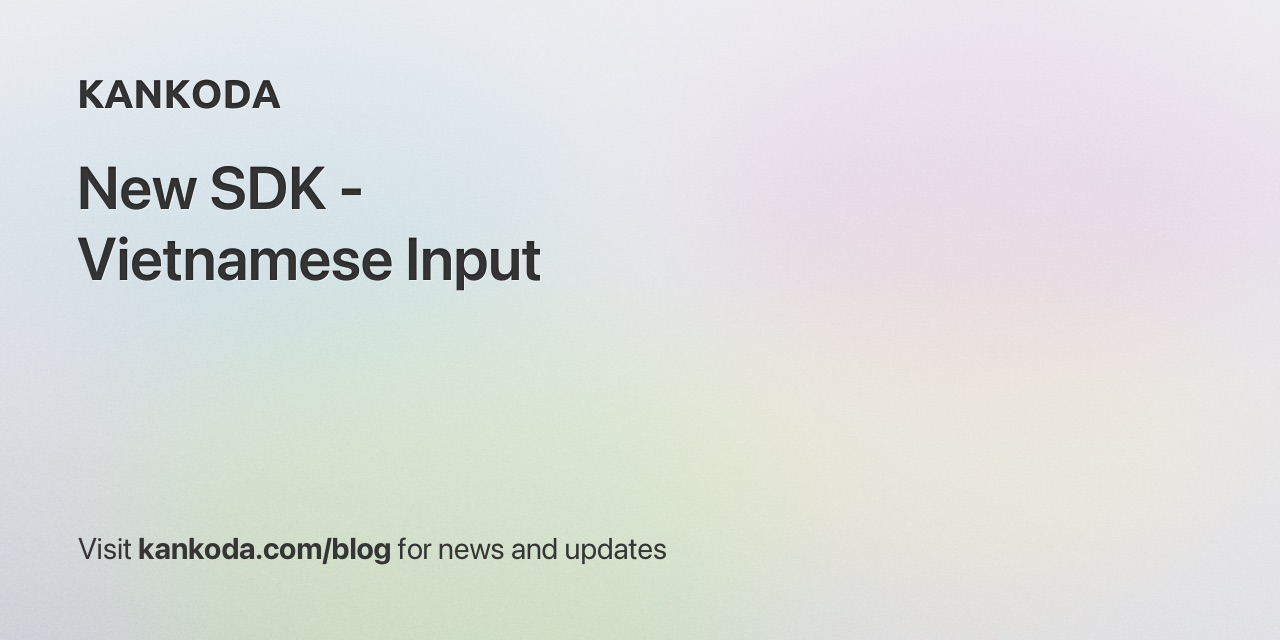
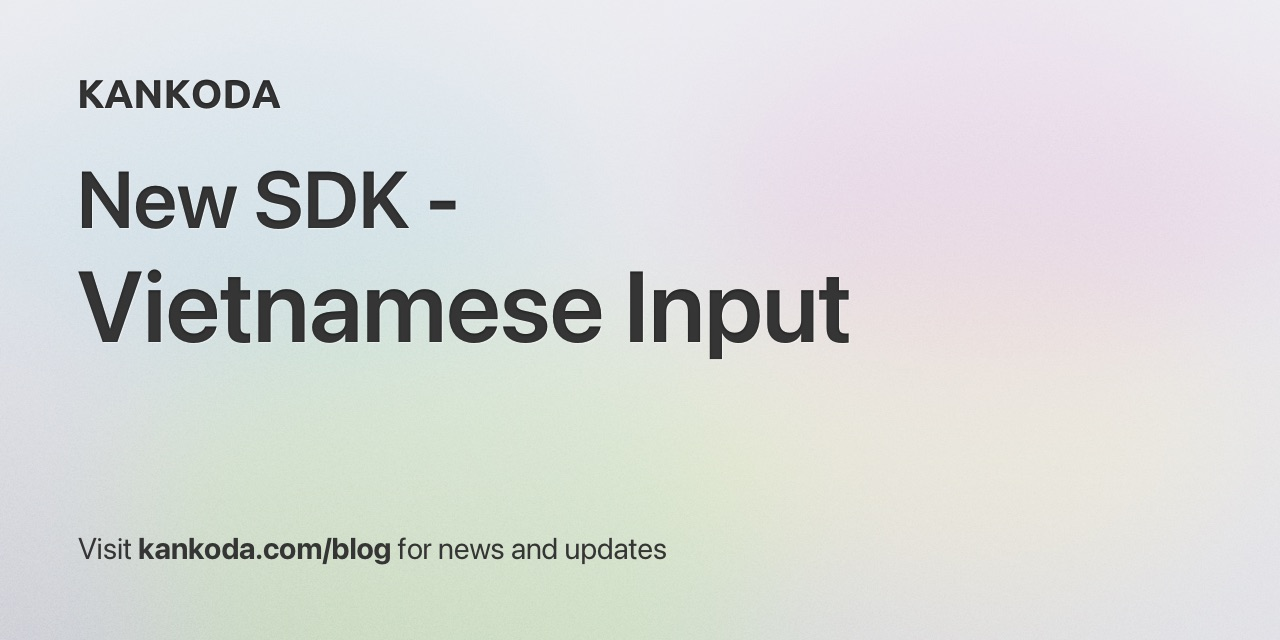
Add blog to home page

Changed region(s): [[0.0625, 0.25, 0.6875, 0.5625]]

diff --git a/index.html b/index.html
@@ -39,6 +39,20 @@ description: Kankoda builds apps and SDKs for all major Apple platforms, using S
         {% include kankoda/grid/grid.html items=site.data.apps limit=4 type="icons" %}
       </article>
     </section>
+
+    <section>
+      <h2>Latest News</h2>
+      <p> 
+        Follow the <a href="/blog">KeyboardKit blog</a> for news & updates.
+      </p>
+      <div class="grid home blog list">
+        {% for post in site.posts limit:2 %}
+        <div>
+          {% include kankoda/blog/image-item.html post=posts.first tag-limit=1 %}
+        </div>
+        {% endfor %}
+      </div>
+    </section>
   
     <section>
       <h2>Social Media</h2>

diff --git a/collections/_posts/2025/2025-06-08-new-sdk-vietnamese-input.md b/collections/_posts/2025/2025-06-08-new-sdk-vietnamese-input.md
@@ -1,5 +1,5 @@
 ---
-title: New SDK - Vietnamese Input!
+title: New SDK - Vietnamese Input
 date:  2025-05-29 07:00:00 +0100
 tags:  sdks vietnamese-input
 
